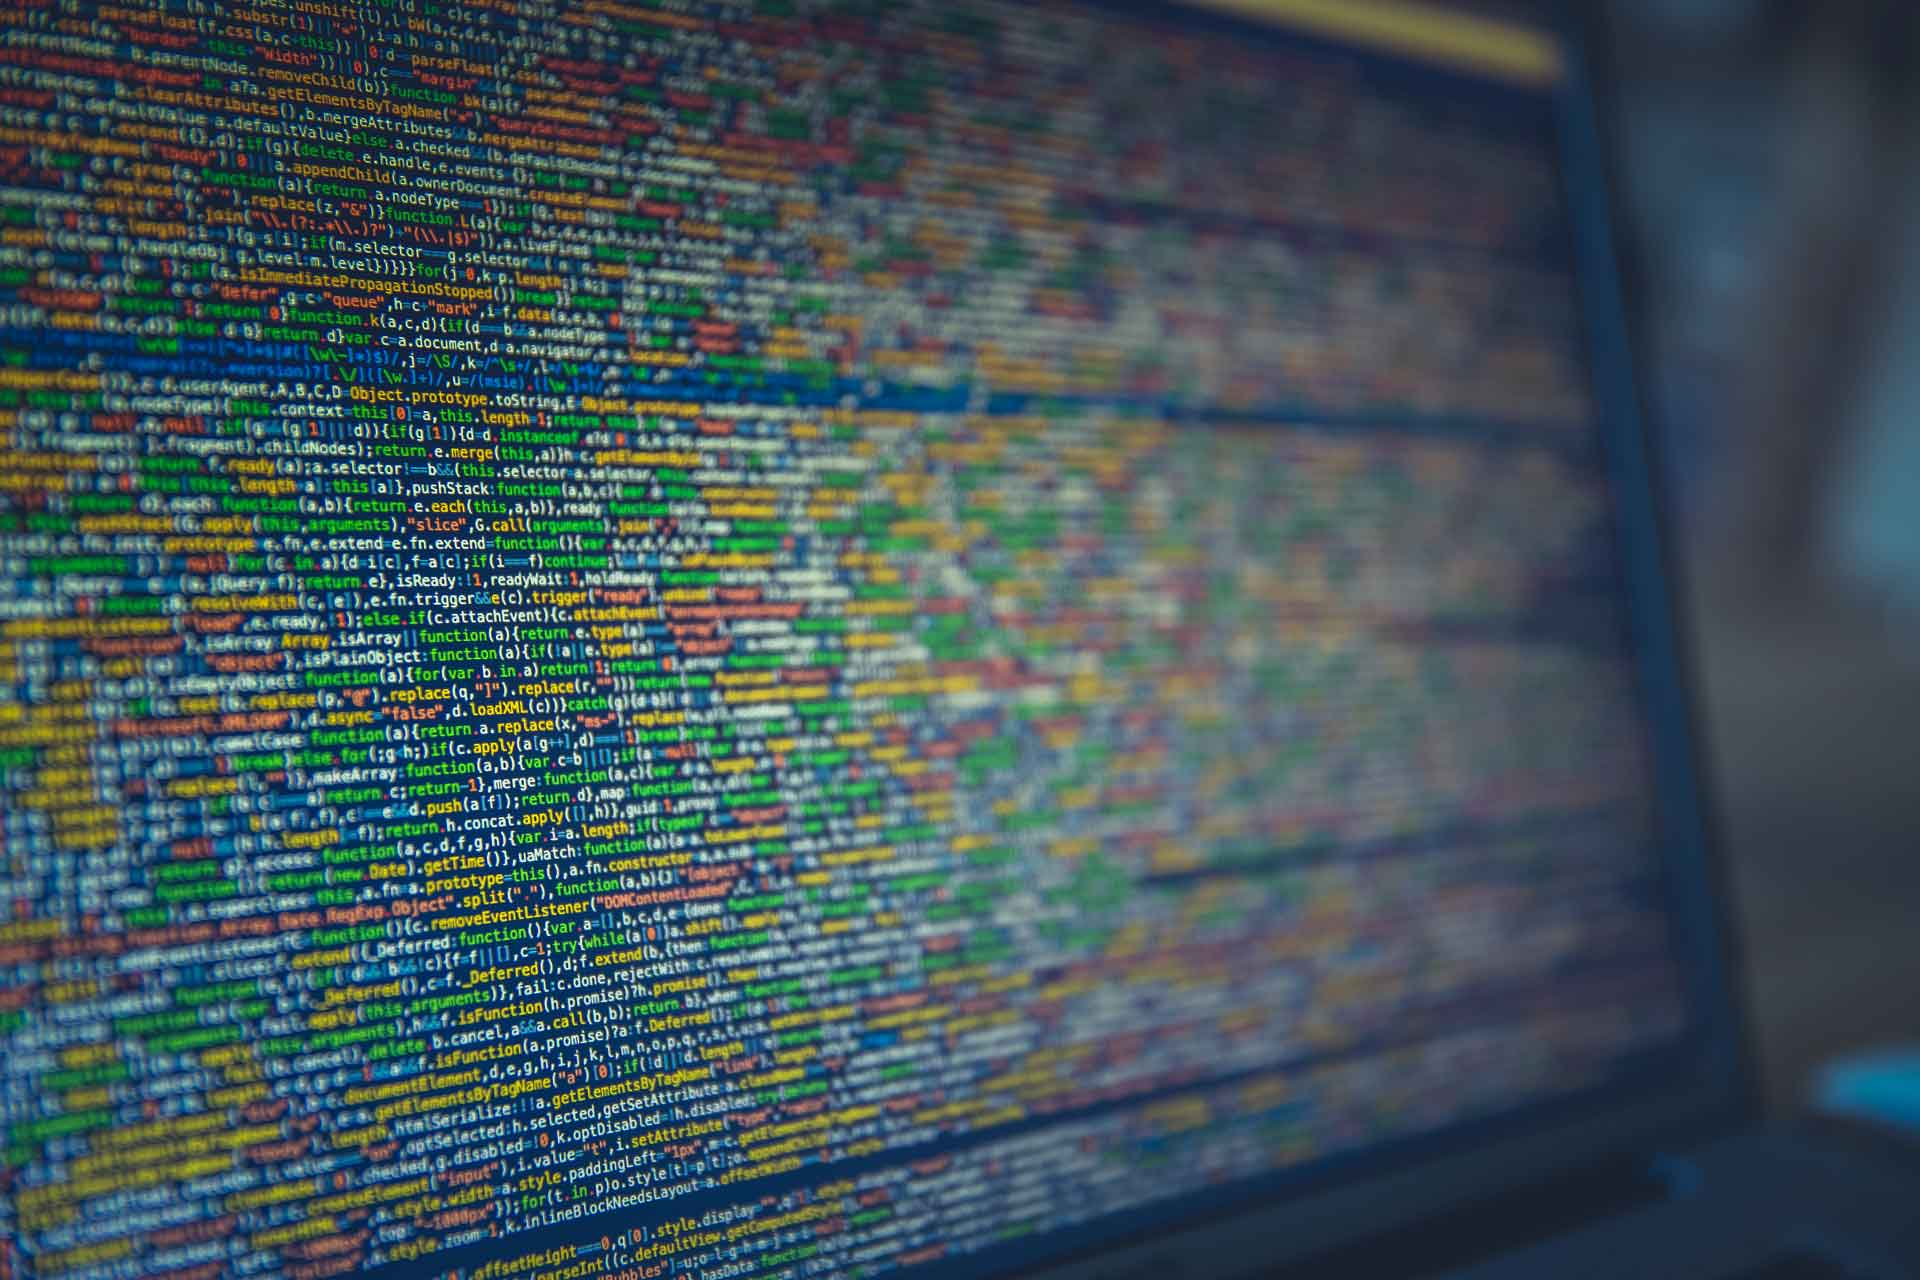
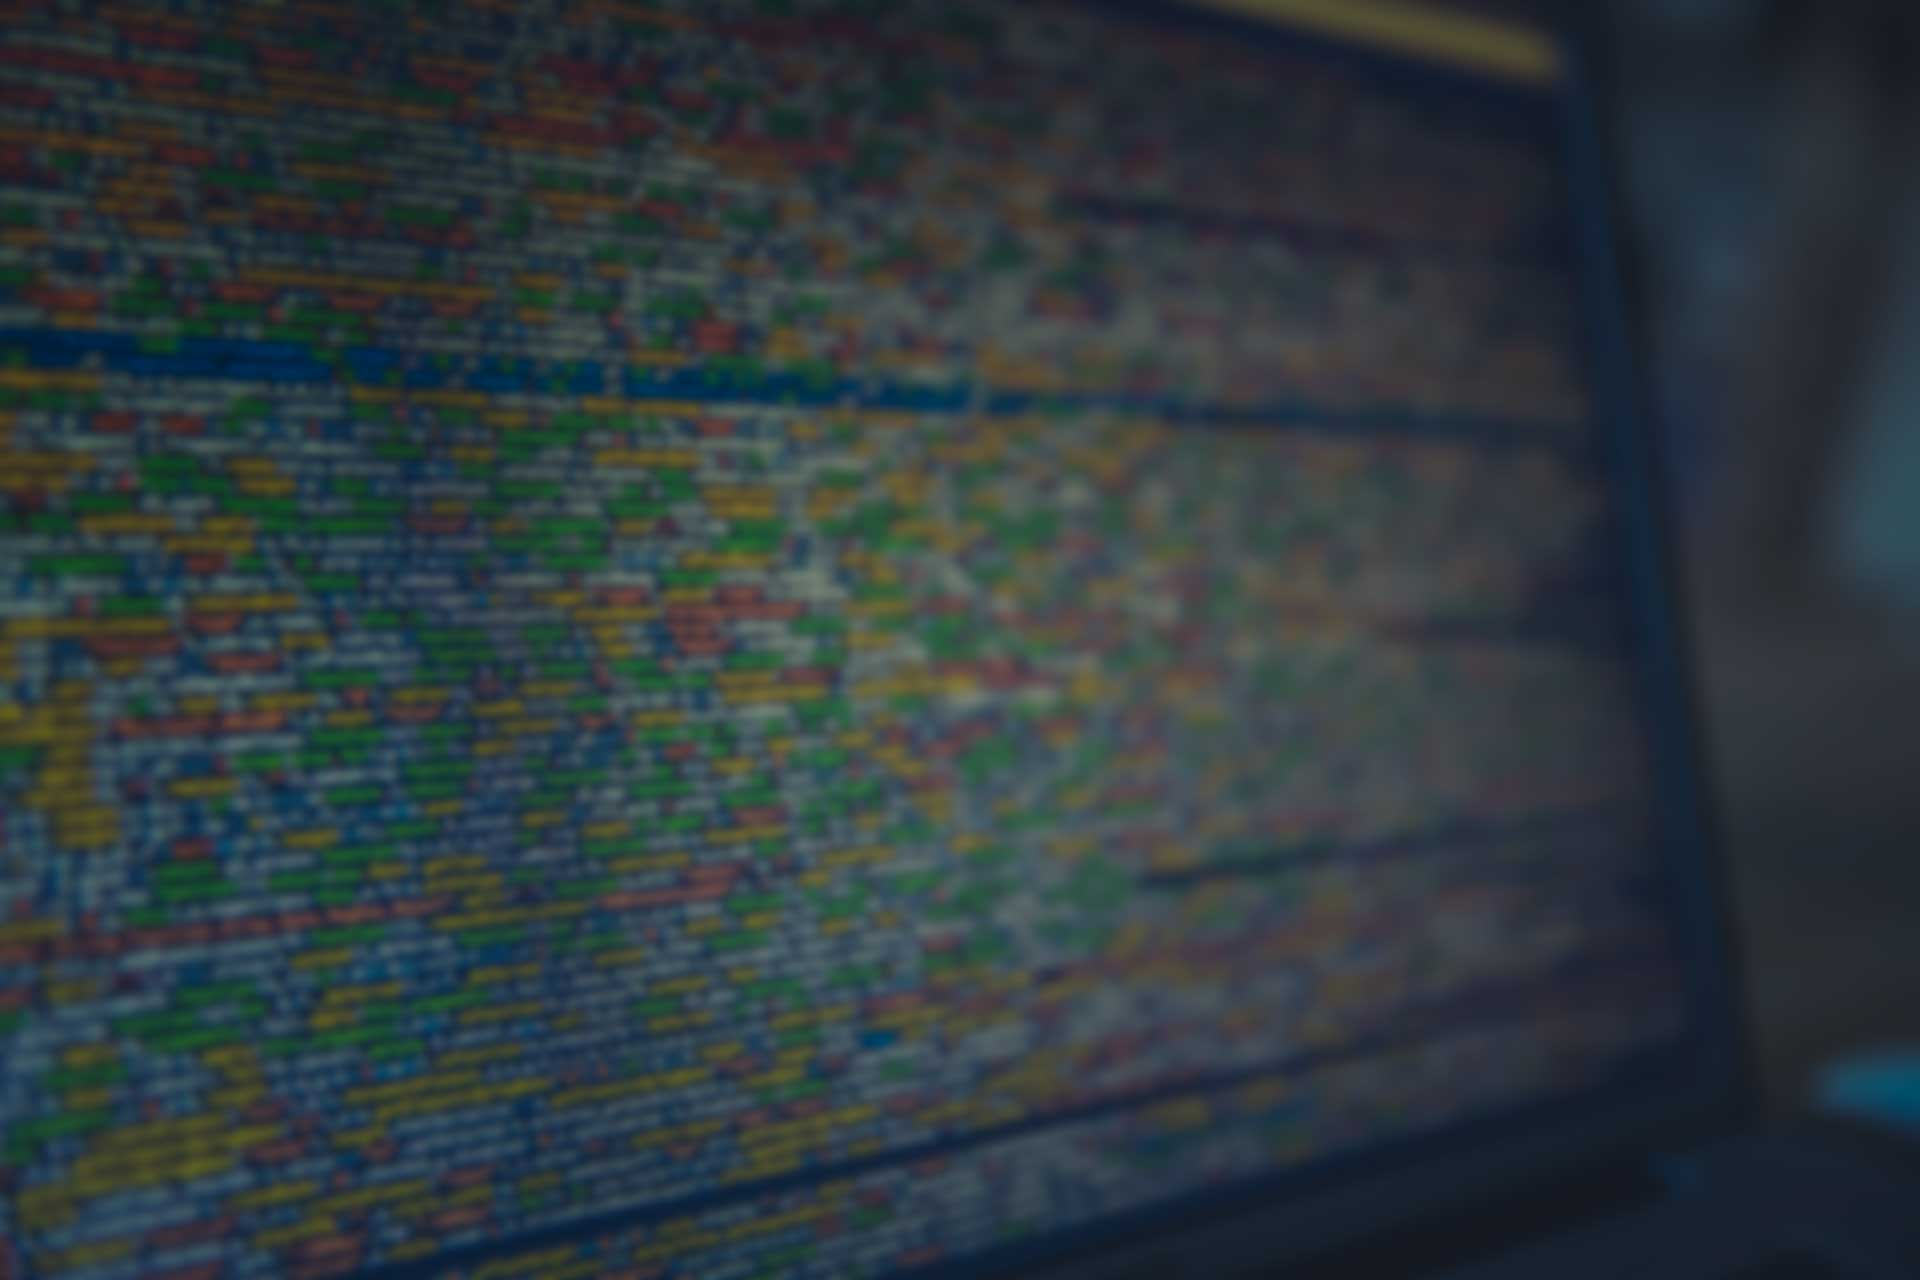
background images

diff --git a/index.html b/index.html
@@ -39,13 +39,13 @@
 
           <div class="masthead clearfix">
             <div class="inner">
-              <h3 class="masthead-brand">Engineering Computation and Data Science</h3>
+              <h3 class="masthead-brand"><a href="http://github.com/onexi"><img src="assets/img/github.png"></a></h3>
               <ul class="nav masthead-nav">
                 <li class="active"><a href="#">Home</a></li>
                 <li><a href="lectures.html">Lectures</a></li>
-				<li><a href="homeworks.html">Homeworks</a></li>
-        <li><a href="labs.html">Labs</a></li>
-				<li><a href="videos.html">Videos</a></li>
+        				<li><a href="homeworks.html">Homeworks</a></li>
+                <li><a href="labs.html">Labs</a></li>
+        				<li><a href="videos.html">Videos</a></li>
                 <li><a href="about.html">About</a></li>
               </ul>
             </div>

diff --git a/assets/css/cover.css b/assets/css/cover.css
@@ -36,7 +36,7 @@ body {
   box-shadow: inset 0 0 100px rgba(0,0,0,.5);
 
   /* start - not part of the original template */
-  background: url('../img/landing/code2.jpg') no-repeat center center fixed; 
+  background: url('../img/landing/code.jpg') no-repeat center center fixed; 
   -webkit-background-size: cover;
   -moz-background-size: cover;
   -o-background-size: cover;
